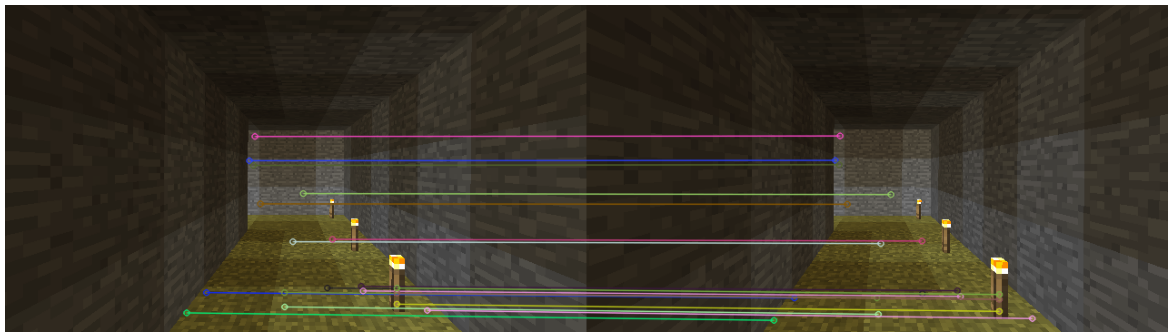
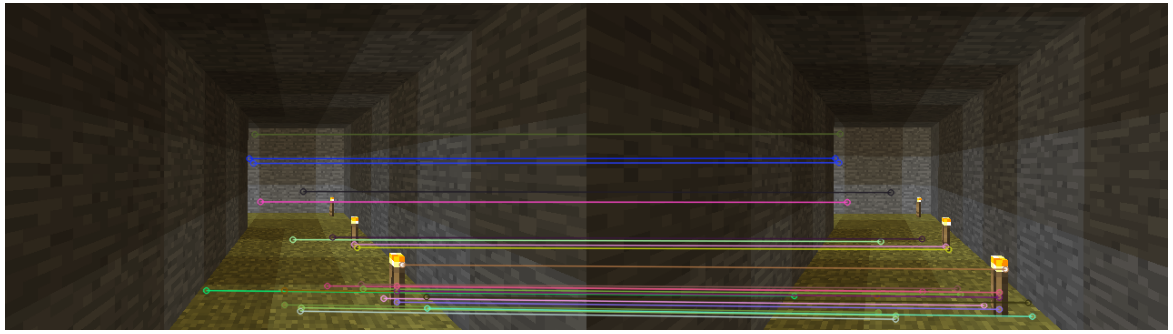
Small threshold change in matching features and finished feature extraction and matching documentation.

diff --git a/sfm/utils.py b/sfm/utils.py
@@ -117,7 +117,7 @@ def image_feature_extractor(img_path, descriptor='SIFT', show=False):
 
 # Matching features between consecutive frames
 def match_features(desc1, desc2, descriptor="SIFT", \
-                   ratio_thresh=0.45, k=2):
+                   ratio_thresh=0.55, k=2):
     # KNN matching (k neighbors for each descriptor in desc1)
     if descriptor == "SIFT":
         norm_type = cv2.NORM_L2

diff --git a/sfm/README.md b/sfm/README.md
@@ -196,6 +196,15 @@ For an image $I$, SIFT identifies keypoints $\mathbf{x} = (u, v)$ and computes a
 
     Notice that there's a difference between the general orientation and the descriptor. The keypoint orientation is the reference frame whereas the descriptor bins are the data. Suppose you didn't do the former. If you took a photo a same intersection for which you already computed SIFT features while hanging upside down, the descriptor would change (also be upside down), and we wouldn't match keypoints that were supposed to be matches.
 
+<div align="center">
+    <br>
+    <img src="assets/sift_extractor.png", width="500">
+</div>
+<div align="center">
+    <span>Illustration of SIFT feature extractor on one of our experiments.</span>
+    <br><br>
+</div>
+
 Given two images $I_a$ and $I_b$, we seek to find corresponding keypoints. We use a K-Nearest Neighbors (k-NN) approach with the Euclidean distance metric ($L_2$ norm). For a descriptor $\mathbf{d}_a$ in image A, we find the two closest descriptors $\mathbf{d}_{b1}, \mathbf{d}_{b2}$ in image B. Then we use Lowe's Ratio Test to reject ambiguous matches: only accept a match if the closest neighbor is significantly closer than the second closest. The concept of significantly closer depends on a chosen trehshold $\alpha$, but the general forumaltion is given by:
 
 $$||\mathbf{d}_a - \mathbf{d}_{b1}|| < \alpha ||\mathbf{d}_a - \mathbf{d}_{b2}||$$
@@ -212,6 +221,15 @@ ORB is designed to be a faster, binary alternative to SIFT.
 
 - Rotation: Standard BRIEF is not rotation invariant. ORB uses the angle $\theta$ found by oriented FAST to steer the 256 test pairs. If the pair was originally pixel (10, 0) vs pixel (0, 10), and the orientation is $90^\circ$, we rotate those coordinates by $90^\circ$ before sampling the pixels. Just for completeness, for the previously mentioned pair and rotation, we would get a pixel coordinates (0, 10) and (-10, 0).
 
+<div align="center">
+    <br>
+    <img src="assets/orb_extractor.png", width="500">
+</div>
+<div align="center">
+    <span>Illustration of ORB feature extractor on one of our experiments.</span>
+    <br><br>
+</div>
+
 For matching, we apply the exact same Lowe's ratio test, but now the descriptor is a string of 1s and 0s, so we measure distances using Hamming (XOR operation), which is much faster for CPUs than SIFT's Euclidean distance.
 
 ### Issues Working with Minecraft
@@ -222,27 +240,126 @@ While robust in the real world because they were designed for natural images, th
 
 - Lack of Scale Variance: Minecraft textures are low-resolution pixel art. When viewed from far away, the high-frequency pixel patterns create [Moiré patterns](https://michaelbach.de/ot/lum-moire1/). A slight camera movement changes the pixel values drastically, altering the gradients SIFT relies on.
 
-Because of that, we had to chose an atypically small $\alpha = 0.45$ to guarantee some kind of proper matching between features, although it highly reduced the amount of matches we ended up with for pairs of images.
+Because of that, we had to chose an atypically small $\alpha = 0.55$ to guarantee some kind of proper matching between features, although it highly reduced the amount of matches we ended up with for pairs of images.
+
+### Filtering Matches
+
+The matches produced by the k-NN algorithm are hypothetical. While they look similar in appearance, they may be geometrically impossible (like a pixel on the floor matched to a pixel on the ceiling).
+
+To filter these outliers, we impose a rigid geometric constraint: epipolar geometry. Consider a single 3D point $\mathbf{X}_1$ observed by two cameras with centers $\mathbf{C}_1$ and $\mathbf{C}_2$ (for simplicity, we treat camera 1 as the center of the universe, so the 3D point $\mathbf{X}_1$ is $\mathbf{X}_w$). These three points form a triangle in 3D space. This triangle lies on a specific 2D plane called the epipolar plane. This coplanarity allows us to derive a strict algebraic relationship between the projection of the point in image 1 and image 2.
+
+<div align="center">
+    <br>
+    <img src="assets/epipolar_geometry.png", width="500">
+</div>
+<div align="center">
+    <span>Illustration of the epipolar geometry and epipolar plane.</span>
+    <br><br>
+</div>
+
+Now let $\mathbf{x}_1$ and $\mathbf{x}_2$ be the coordinates of the feature points in **normalized** camera coordinates. We obtain these by removing the camera intrinsics from pixel coordinates:
+
+$$\mathbf{x}_{norm} = \mathbf{K}^{-1} \mathbf{x}_{pixel}$$
+
+It's very important to notice here that $\mathbf{x}_{norm}$ is not exactly a point in space. When doing the forward math from $\mathbf{X}_c = [X, Y, Z]^T$ to $\mathbf{u} = [u, v, 1]^T$, we have:
+
+$$\mathbf{K} \begin{bmatrix} 
+X \\ 
+Y \\ 
+Z
+\end{bmatrix} = \begin{bmatrix} 
+u = f_x X + c_x Z \\ 
+v = f_y Y + c_y Z \\ 
+Z 
+\end{bmatrix} = \lambda \begin{bmatrix} 
+u \\ 
+v \\ 
+1 
+\end{bmatrix}$$
+
+With $\lambda = Z$ encoding the depth information because we have to divide the first two coordinates by it to get to the pixel coordinate. But when doing the back computation, starting from a pixel, we don't have $\lambda$, so we end up with the ratio of the $X$ and $Y$ coordinates with respect to $Z$, but not an actual point in 3D space:
+
+$$\mathbf{K}^{-1} \begin{bmatrix}
+u \\
+v \\ 
+1 
+\end{bmatrix} = \begin{bmatrix} 
+(u - c_x)/f_x \\ 
+(v - c_y)/f_y \\ 
+1 
+\end{bmatrix} = \begin{bmatrix} 
+X / Z \\ 
+Y / Z \\ 
+1 
+\end{bmatrix}$$
+
+So mathematically, $\mathbf{K}^{-1} \mathbf{x}_{pixel}$ gives us the coordinates of the point if the depth was exactly $Z=1$. Since the depth could be anything, this vector represents an infinite line passing through $(0,0,0)$ and $(X/Z, Y/Z, 1)$, which is a ray.
+
+The relationship between the two camera views is defined by a rotation $\mathbf{R}$ and translation $\mathbf{t}$, so a point in the second frame is related to the first frame by rigid body motion:
+
+$$\mathbf{x}_2 = \mathbf{R} \mathbf{x}_1 + \mathbf{t}$$
+
+Note that this holds up to a scale factor since we don't know depth yet, but the vectors point in the same direction. Mathematically, the relationship that involves the true 3D depths is:
+
+$$\lambda_2 \mathbf{x}_2 = \mathbf{R} (\lambda_1 \mathbf{x}_1) + \mathbf{t}$$
+
+And now hold on to your chairs because we are going to do some algebraic massage to this equation until we can eliminate the depth variables we don't know:
+
+$$\lambda_2 \mathbf{x}_2 = \lambda_1 \mathbf{R} \mathbf{x}_1 + \mathbf{t} \underset{\text{Cross product with } \mathbf{t}} \implies$$
+
+$$\implies \mathbf{t} \times (\lambda_2 \mathbf{x}_2) = \mathbf{t} \times (\lambda_1 \mathbf{R} \mathbf{x}_1 + \mathbf{t}) \implies$$
+
+$$\implies \lambda_2 (\mathbf{t} \times \mathbf{x}_2) = \lambda_1 (\mathbf{t} \times \mathbf{R} \mathbf{x}_1) \underset{\text{Dot product with } \mathbf{x}_2} \implies$$
+
+$$\implies \mathbf{x}_2 \cdot [ \lambda_2 (\mathbf{t} \times \mathbf{x}_2) ] = \mathbf{x}_2 \cdot [ \lambda_1 (\mathbf{t} \times \mathbf{R} \mathbf{x}_1) ] \implies$$
+
+$$\implies 0 = \lambda_1 [ \mathbf{x}_2 \cdot (\mathbf{t} \times \mathbf{R} \mathbf{x}_1) ] \underset{\lambda_1 \text{ cannot be 0 (inside the camera)}} \implies$$
+
+$$\implies \mathbf{x}_2 \cdot (\mathbf{t} \times \mathbf{R} \mathbf{x}_1) = 0$$
+
+This last equation we just got to is a rewriting of the famous essential matrix equation. We'll use a cross-product simulating matrix and the associative property of matrix multiplication to get:
+
+$$\mathbf{x}_2 \cdot (\mathbf{t} \times \mathbf{R} \mathbf{x}_1) = \mathbf{x}_2 \cdot ([\mathbf{t}]_\times (\mathbf{R} \mathbf{x}_1)) =$$
+
+$$= \mathbf{x}_2 \cdot (([\mathbf{t}]_\times \mathbf{R}) \mathbf{x}_1) = \mathbf{x}_2^T ([\mathbf{t}]_\times \mathbf{R}) \mathbf{x}_1 =$$
+
+$$= \mathbf{x}_2^T \mathbf{E} \mathbf{x}_1 = 0$$
+
+Where
+
+$$[\mathbf{t}]_\times = \begin{bmatrix} 
+0 & -t_3 & t_2 \\
+t_3 & 0 & -t_1 \\
+-t_2 & t_1 & 0
+\end{bmatrix}$$
+
+Finally getting to the part where we filter points, we start by solving for $\mathbf{E}$. We could do it using all our matches via least squares, but a single outlier would ruin the result. Instead, we use Random Sample Consensus (RANSAC):
+
+- Randomly select the minimum number of points required to solve for $\mathbf{E}$. Since $\mathbf{E}$ has 5 degrees of freedom (3 rotation, 2 translation), we select 5 random matches. Just to ratify why we only have 2 degrees of freedom for translation, remember that scale is unknown. This basically means that if we move the camera 2 center along the ray it shoots on $\mathbf{X}_1$, it won't change $\mathbf{x}_2$, which puts a constraint on the translation vector, reducing one degree of freedom from it.
+
+- Compute a candidate essential matrix $\mathbf{E}_{cand}$ using the [Nister 5-point algorithm](https://www-users.cse.umn.edu/~hspark/CSci5980/nister.pdf). Test all other matches against this candidate. For each match $(\mathbf{x}_1, \mathbf{x}_2)$, we calculate the error: how far is point $\mathbf{x}_2$ from the epipolar line defined by $\mathbf{E}_{cand} \mathbf{x}_1$? If distance is less than a threshold (normally 1 or less), count it as an inlier.
+
+- Repeat the previous steps $N$ iterations and keep the $\mathbf{E}$ that produced the highest number of inliers. Then re-calculate the final $\mathbf{E}$ using only those inliers for maximum precision. The result is a boolean mask. Matches that fit the geometric model (inliers) are kept for triangulation. Matches that violate the geometry (outliers) are discarded.
 
 <div align="center">
     <br>
     <img src="assets/sift_matching.png", width="700">
 </div>
 <div align="center">
-    <span>Illustration of matching result using SIFT features on one of our experiments.</span>
+    <span>Illustration of matching result using SIFT features after matching and filtering on one of our experiments. It's visible that we end up with only very reasonable matches, even though some keypoints are not that really distinctive for the scene.</span>
     <br><br>
 </div>
-
-### Filtering Matches
-
-
 
 ### Tracking
 
 A critical architectural decision in our pipeline that had positive impact on the final reconstruction was the move from pairwise matches to global tracks (for later multi-view triangulation). Standard pairwise triangulation treats the pair $(I_1, I_2)$ and $(I_2, I_3)$ as separate universes. If a feature exists in all three frames, naive pairwise logic creates two separate 3D points ($X_{12}$ and $X_{23}$) for the same physical object. This results in ghosting or noise in the final point cloud.
 
-We solve this by building a track list, propagating features across consecutive frames until it's not found anymore. This results in a set of tracks, where a single track $\mathcal{T}$ represents one physical 3D point observed across $N$ consecutive frames
+We solve this by building a track list, propagating features across consecutive frames until it's not found anymore. This results in a set of tracks, where a single track $\mathcal{T}$ represents one physical 3D point observed across $N$ consecutive frames:
 
-:$$\mathcal{T}_k = \{ (I_{start}, u, v), (I_{start+1}, u', v'), \dots, (I_{end}, u'', v'') \}$$
+$$\mathcal{T}_k = \{ (I_{start}, u, v), (I_{start+1}, u', v'), \dots, (I_{end}, u'', v'') \}$$
 
 Although this is far from what modern tracking can do (and what we'll try to explore on other pipelines), it's a simple and fast implementation that already gave us promising results.
+
+## Triangulation and 3D Reconstruction
+
+### Bundle Adjustment
